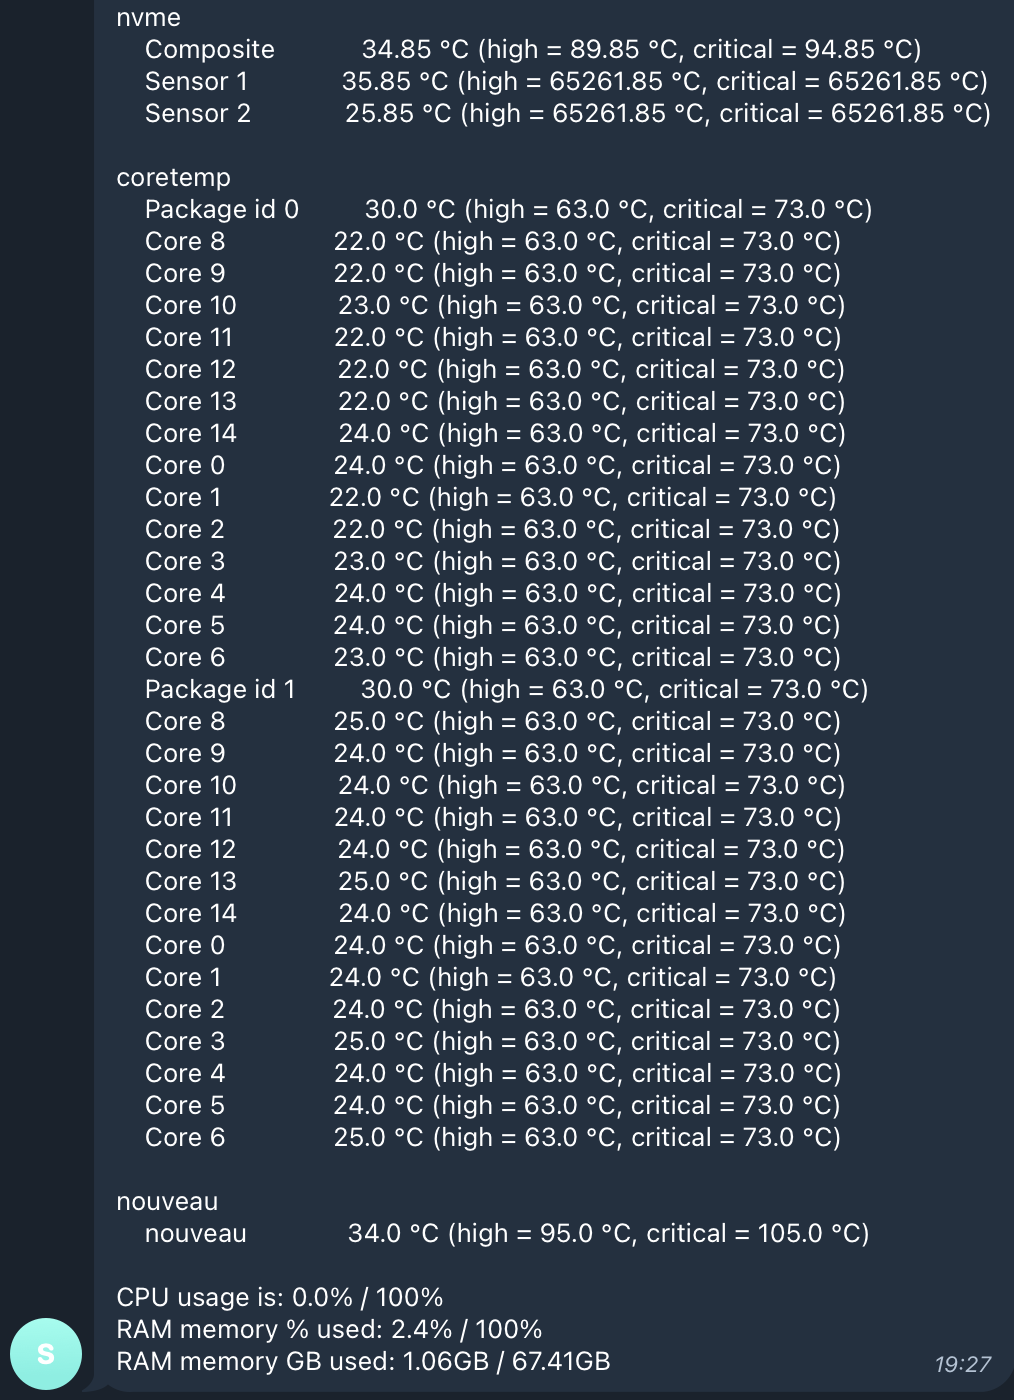
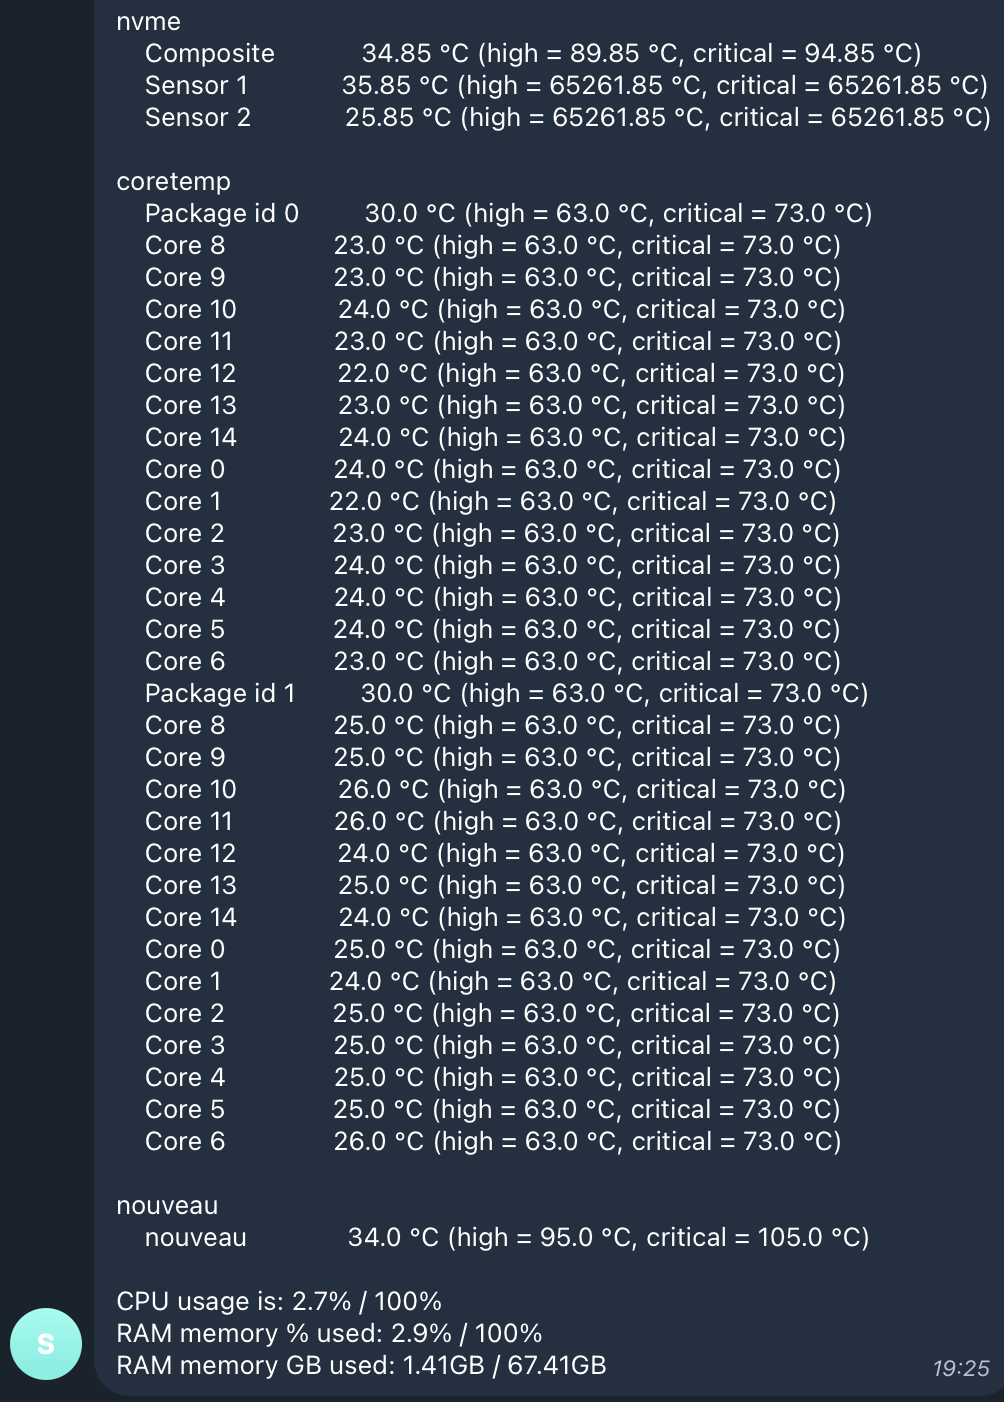
Fix readme

diff --git a/REPORT.md b/REPORT.md
@@ -1,21 +1,25 @@
 # Отчет по нагрузочному тестированию
 
-Есть сервер с вот такой конфигурацией: <https://www.cpubenchmark.net/cpu.php?cpu=Intel+Xeon+E5-2650L+v4+%40+1.70GHz&id=3054&cpuCount=2> и 64 GB ОЗУ. Разворачиваем на нем веб сервер со скриптом [web/index.php](https://github.com/KostikShutov/test-cases/blob/main/web/index.php), который считает хэши md5.
+Есть сервер с вот такой конфигурацией: <https://www.cpubenchmark.net/cpu.php?cpu=Intel+Xeon+E5-2650L+v4+%40+1.70GHz&id=3054&cpuCount=2> и 64 GB ОЗУ.
+
+![Сервер](/screens/1.jpeg "Сервер")
+
+Разворачиваем на нем веб сервер со скриптом [web/index.php](https://github.com/KostikShutov/test-cases/blob/main/web/index.php), который считает хэши md5.
 
 Также у меня есть [алертер](https://github.com/KostikShutov/tg-info-alerter), который постоянно отправляет информацию о своем состоянии ко мне в телегу:
 
-![Состояние покоя](/screens/1.png "Состояние покоя")
+![Состояние покоя](/screens/2.png "Состояние покоя")
 
 Запускаем тест план на жесткую долбежку:
 
-![Запускаем тест план](/screens/2.png "Запускаем тест план")
+![Запускаем тест план](/screens/3.png "Запускаем тест план")
 
 Видим, что проценты CPU и RAM сразу пошатнулись (в самом низу скрина):
 
-![Под нагрузкой](/screens/3.png "Под нагрузкой")
+![Под нагрузкой](/screens/4.png "Под нагрузкой")
 
 Останавливаем нагрузочное тестирование и тут же видим, как проценты вернулись обратно:
 
-![Снова состояние покоя](/screens/4.png "Снова состояние покоя")
+![Снова состояние покоя](/screens/5.png "Снова состояние покоя")
 
 Вывод: машинку с такими мощностями скриптом из репозитория, конечно, не положить, но при всем при этом какое-то влияние на нагрузку все таки было (2.7% на процессор).
